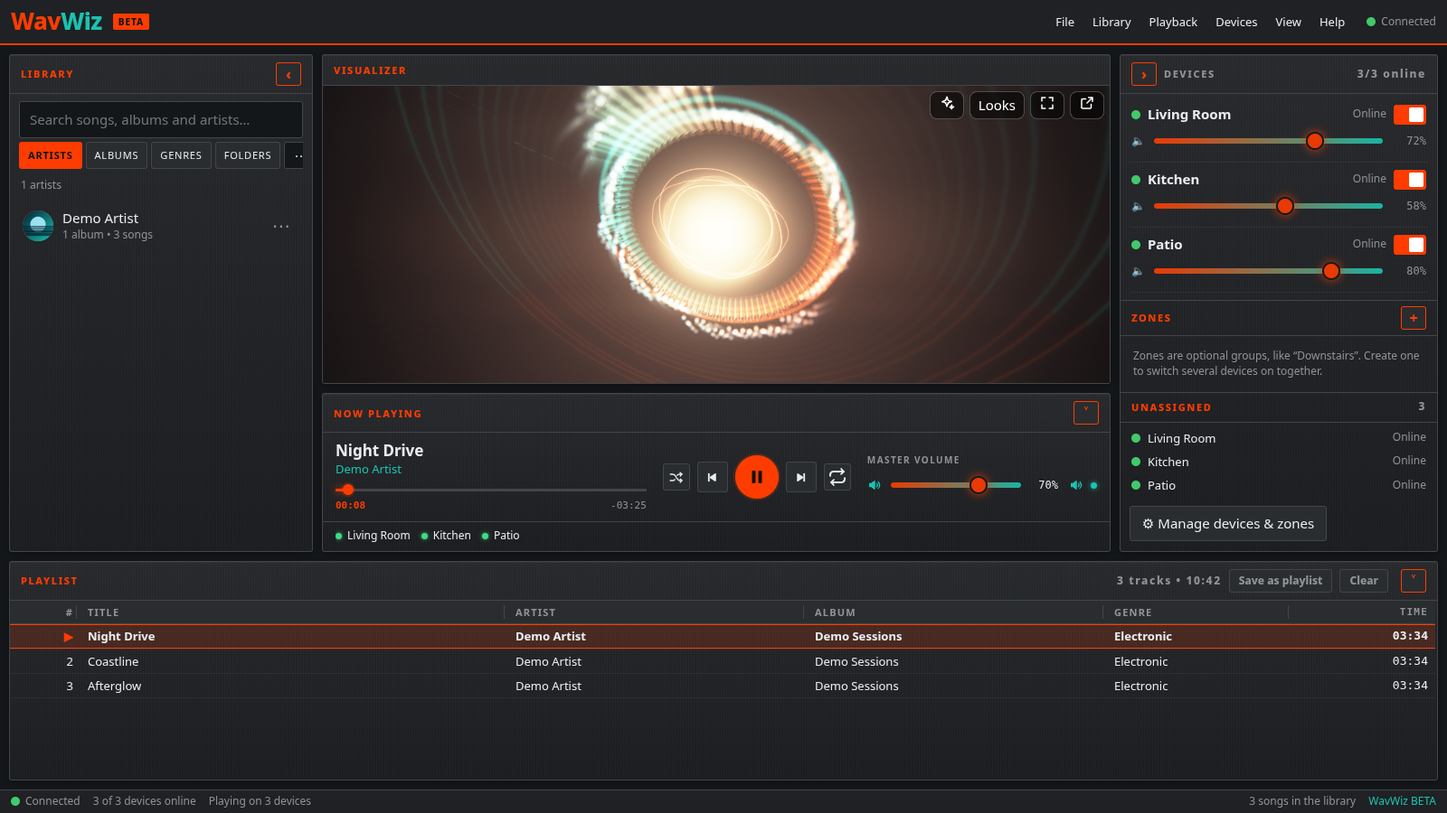
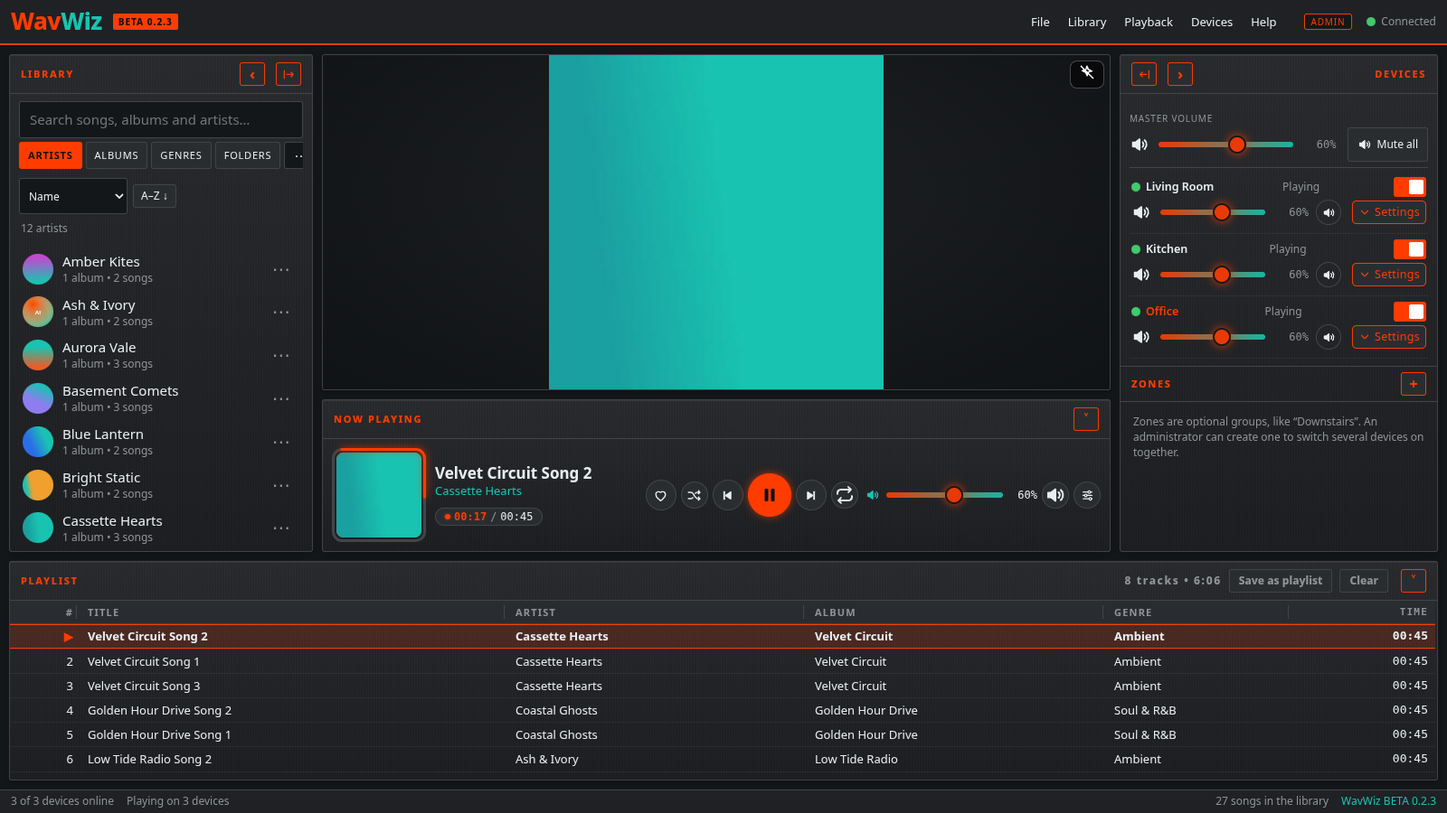
0.2.3 docs: README features/screenshots, FIRST-RUN (menus, Settings, devices, phone calibration, Lock EQ), CHANGELOG 0.2.0 entry and public wording, INSTALLER/SUPPORT refresh

diff --git a/CHANGELOG.md b/CHANGELOG.md
@@ -10,35 +10,31 @@ WavWiz is currently in **beta**. Breaking changes and rough edges are expected.
 
 ## [Unreleased]
 
-### Planned
-
-Items below are on the roadmap (not promised for a specific date):
-
-- Authenticode code signing for the public installer (planned for 1.0.0)
+Nothing yet.
 
 ## [0.2.3] - 2026-10-11 (beta)
 
-Fine-tunes on top of 0.2.2 (which was not published on its own); 0.2.3 includes everything from 0.2.2.
+First public release since 0.1.3. Versions 0.2.0, 0.2.1 and 0.2.2 were test builds and were not published on their own; their changes are listed below and are all included in 0.2.3.
 
 ### Changed
 
-- **Minimized Now Playing is one line (U1):** album thumbnail, title · artist over the progress bar (elapsed / total), then heart, shuffle, previous, Play / Pause, next, repeat, volume + %, mute and EQ, all on the Now Playing bar and scaled to fit (less important pieces drop out first on narrow columns). Nothing moves to the Playlist title bar any more, and Play / Pause is no longer forced to the center.
-- **Minimized Playlist shows "Up next" (U2):** the next song in the queue (cover, title · artist), centered on the Now Playing column; the track count, Save as playlist and Clear stay at the right.
-- **The one-line bar follows the selected control panel style and theme (U3):** Classic (progress ring around the thumbnail, glowing round Play), Center (soft buttons, waveform seek, spinning record thumbnail), Stack (small LCD window, LED-block seek, squared buttons), Horizon (glowing thumbnail, seek line flowing from it, ring buttons), in the theme's Main / Second colors; the panel effect sliders apply.
-- **Settings > Appearance > Display size** has no preview pane (U4); the whole app already changes live.
-- **Pinned previews (U5, U8):** the Theme, Visualizer, EQ and Now Playing live previews stay at the top of the page while the settings below scroll, at every Display size (the pinned preview shrinks on short windows).
-- **Expand buttons (U6)** point the way the panel travels: Devices expands to the left and returns to the right; Library is the mirror image.
-- **Devices header (U7):** the DEVICES title sits at the right edge, a true mirror of LIBRARY.
-- **Device cards open into their settings (U12):** the ••• button on each device card is now a themed chevron **Settings** button (it matches the Library / Devices expand arrows). It opens the device's settings (sound check, exact delay, Sound / EQ, connection, Rename / Set as reference / Forget) downward under the card, in place, in both the Standard and Expanded Devices views; the chevron flips, and the button or Esc closes them. Admin-only items stay visible but read-only for other users. Each card remembers being open for the browser session.
-- **Appearance > EQ shows the real EQ (U10):** the preview mirrors this device's speaker (bands, preset, pre-gain, loudness), live, in the chosen style. It opens with Lock EQ checked every time; unchecked, changes play at once and are kept in the speaker's own preset ("<speaker> EQ").
+- **Minimized Now Playing is one line:** album thumbnail, title · artist over the progress bar (elapsed / total), then heart, shuffle, previous, Play / Pause, next, repeat, volume + %, mute and EQ, all on the Now Playing bar and scaled to fit (less important pieces drop out first on narrow columns). Nothing moves to the Playlist title bar any more, and Play / Pause is no longer forced to the center.
+- **Minimized Playlist shows "Up next":** the next song in the queue (cover, title · artist), centered on the Now Playing column; the track count, Save as playlist and Clear stay at the right.
+- **The one-line bar follows the selected control panel style and theme:** Classic (progress ring around the thumbnail, glowing round Play), Center (soft buttons, waveform seek, spinning record thumbnail), Stack (small LCD window, LED-block seek, squared buttons), Horizon (glowing thumbnail, seek line flowing from it, ring buttons), in the theme's Main / Second colors; the panel effect sliders apply.
+- **Settings > Appearance > Display size** has no preview pane; the whole app already changes live.
+- **Pinned previews:** the Theme, Visualizer, EQ and Now Playing live previews stay at the top of the page while the settings below scroll, at every Display size (the pinned preview shrinks on short windows).
+- **Expand buttons** point the way the panel travels: Devices expands to the left and returns to the right; Library is the mirror image.
+- **Devices header:** the DEVICES title sits at the right edge, a true mirror of LIBRARY.
+- **Device cards open into their settings:** the ••• button on each device card is now a themed chevron **Settings** button (it matches the Library / Devices expand arrows). It opens the device's settings (sound check, exact delay, Sound / EQ, connection, Rename / Set as reference / Forget) downward under the card, in place, in both the Standard and Expanded Devices views; the chevron flips, and the button or Esc closes them. Admin-only items stay visible but read-only for other users. Each card remembers being open for the browser session.
+- **Appearance > EQ shows the real EQ:** the preview mirrors this device's speaker (bands, preset, pre-gain, loudness), live, in the chosen style. It opens with Lock EQ checked every time; unchecked, changes play at once and are kept in the speaker's own preset ("<speaker> EQ").
 
 ### Added
 
-- **Lock EQ (U9):** a checkbox with a padlock in the Sound (EQ) window header and on the Appearance > EQ preview. Locked, the EQ sliders ignore the mouse wheel (the page scrolls instead), dragging, clicks and keys, and look slightly dimmed with a small lock. Remembered per device; off by default (the wheel still fine-adjusts in 0.5 dB steps).
+- **Lock EQ:** a checkbox with a padlock in the Sound (EQ) window header and on the Appearance > EQ preview. Locked, the EQ sliders ignore the mouse wheel (the page scrolls instead), dragging, clicks and keys, and look slightly dimmed with a small lock. Remembered per device; off by default (the wheel still fine-adjusts in 0.5 dB steps).
 
 ### Fixed
 
-- **Revoking a device removes it from the Devices list (U11):** revoking a paired phone or browser (Settings > Devices > Paired devices & tokens) left the speakers it had opened in that browser on every Devices list, still connected and playing, because only WavWiz Player tokens were handled. Now everything the token owns leaves the list at once on every open page (Standard, Expanded, zones and the Devices page), its connections close, and it has to pair again. Forget device on a browser speaker no longer lets it rejoin straight away, and a list that was busy (a slider, menu or zone editor open) no longer keeps a removed device.
+- **Revoking a device removes it from the Devices list:** revoking a paired phone or browser (Settings > Devices > Paired devices & tokens) left the speakers it had opened in that browser on every Devices list, still connected and playing, because only WavWiz Player tokens were handled. Now everything the token owns leaves the list at once on every open page (Standard, Expanded, zones and the Devices page), its connections close, and it has to pair again. Forget device on a browser speaker no longer lets it rejoin straight away, and a list that was busy (a slider, menu or zone editor open) no longer keeps a removed device.
 
 ## [0.2.2] - 2026-10-10 (beta)
 
@@ -95,6 +91,36 @@ Fine-tunes on top of 0.2.2 (which was not published on its own); 0.2.3 includes 
 - The Library filter box lost focus after every keystroke.
 - Menus now switch on hover while one is open, like Windows.
 - The silent installer returned exit code 0 even when a setup step failed.
+
+## [0.2.0] - 2026-10-08 (beta)
+
+### Added
+
+- **Every browser is a speaker:** any desktop, phone or tablet browser that opens WavWiz joins as a speaker by itself, with a readable name (for example "Chrome on Windows"). The separate "This phone as a device" page is gone.
+- **Safe start for slower browsers:** the visualizer starts after the page is ready, a stall watchdog switches to a lighter mode if the page freezes, and `?lite` opens the light layout directly.
+- **Getting started:** one short guide on first run and from Help > Getting started (speakers, test sound, next steps).
+- **Sign in as admin / Leave admin mode** (File menu): unlock admin settings in place without signing out or pairing again; an Admin chip shows while it is on. Admin-only items are read-only for everyone else, never hidden.
+- **Master volume** at the top of Devices, and a Mute button on every speaker.
+- **Outputs:** each PC speaker shows its audio output, can switch it, and keeps its delay (0–1000 ms) per output.
+- **Set as reference:** pick a house reference speaker once; calibration uses it by default.
+- **Four Now Playing styles:** Classic (default), Center, Stack and Horizon, each with Panel effects sliders (50% default).
+- **Ten theme presets**, including Blue Steel, an all-green Pepecoin, Nebula and Lime Circuit; custom themes with more color pickers.
+- **Library:** sorting with a flip button and a letter strip on every tab, favorites (hearts) with a Favorites tab, a cover grid, and the big Expanded library view.
+- **Spectrum visualizer** (smooth rounded bars in the theme colors with a glossy reflection), every effect 0–100% with a 50% default.
+- **What's new** pop-up, shown once after an update.
+- Transparent square app icons; silent-install switches, exit codes and upgrade behavior documented in [docs/INSTALLER.md](docs/INSTALLER.md).
+
+### Changed
+
+- The volume and Mute on the Now Playing panel control only the device you are using; the header chips only show status.
+- Regular users can set the delay and output of their own device; house-wide settings stay with the administrator.
+- **Calibration** pauses the music and resumes it afterwards, re-syncs the clock before every recording, and waits for you to walk to the next speaker, with a Wi-Fi meter.
+- The About box and privacy note now say plainly which features reach the internet (internet radio, tag and cover lookups, Spotify Connect).
+- MusicBrainz lookups identify themselves with the current WavWiz version.
+
+### Removed
+
+- The Terrain visualizer (a saved Terrain choice switches to Spectrum).
 
 ## [0.1.3] - 2026-10-07 (first public beta)
 

diff --git a/README.md b/README.md
@@ -10,7 +10,7 @@
 
 **Whole-home audio wizardry.**
 
-WavWiz turns an always-on Windows PC into a whole-home music server. Your library and internet radio play in sync on your PCs, phones, and tablets. Phones play from the browser, with no app to install. No cloud account, no analytics, no telemetry, and WavWiz doesn't open ports to the internet. (Internet radio, tag/cover lookups, and the optional Spotify Connect reach the internet when you use them.)
+WavWiz turns an always-on Windows PC into a whole-home music server. Your library and internet radio play in sync on your PCs, phones, and tablets. Phones play from the browser, with no app to install. No cloud account, no analytics, no telemetry, and WavWiz doesn't open ports to the internet. (Internet radio, tag and cover lookups, online album covers and artist photos (which you can switch off), and the optional Spotify Connect reach the internet.)
 
 > **Public beta.** Expect rough edges and frequent updates. Please report bugs via [GitHub Issues](https://github.com/vdubbin74/WavWiz/issues).
 
@@ -20,19 +20,25 @@ WavWiz turns an always-on Windows PC into a whole-home music server. Your librar
 
 ## Screenshots
 
-![WavWiz main window with the library, visualizer, Now Playing, three connected devices and the playlist](docs/img/wavwiz-main.png)
+![WavWiz main window with the library, Now Playing, three connected devices and the playlist](docs/img/wavwiz-main.png)
 
-| Phone (browser) | Per-device delay | Add a music folder |
+| Device settings, opened in place | Sound (EQ) with Lock EQ | Settings > Appearance > Theme |
 | --- | --- | --- |
-| ![WavWiz Now Playing on a phone](docs/img/wavwiz-phone.png) | ![Per-device delay slider for Living Room, with Kitchen and Patio in the device list](docs/img/wavwiz-delay.png) | ![Settings, Music folders with a network folder being added](docs/img/wavwiz-settings-library.png) |
+| ![Two device cards, one opened to show sound check, exact delay, Sound / EQ, connection and Rename / Set as reference / Forget](docs/img/wavwiz-device-settings.png) | ![The 10-band EQ in the LED look with Lock EQ checked](docs/img/wavwiz-eq-lock.png) | ![Theme cards with the live preview pinned at the top](docs/img/wavwiz-appearance-theme.png) |
+
+**Minimized Now Playing: everything on one line**
+
+![Minimized Now Playing bar with cover, title, progress and every control on one line, and the Playlist bar showing Up next](docs/img/wavwiz-minimized-bar.png)
+
+| Phone (browser) | Add a music folder |
+| --- | --- |
+| ![WavWiz Now Playing on a phone](docs/img/wavwiz-phone.png) | ![Settings, Music folders with a network folder being added](docs/img/wavwiz-settings-library.png) |
 
 **Visualizers**
 
-| Graphic EQ | Ring | Speaker cone |
-| --- | --- | --- |
-| ![Graphic EQ visualizer](docs/img/wavwiz-viz-graphic-eq.png) | ![Ring visualizer](docs/img/wavwiz-viz-ring.png) | ![Speaker cone visualizer](docs/img/wavwiz-viz-speaker-cone.png) |
-| **Terrain** | **VU meters** | |
-| ![Terrain visualizer](docs/img/wavwiz-viz-terrain.png) | ![VU meters visualizer](docs/img/wavwiz-viz-vu-meters.png) | |
+| Graphic EQ | Ring | Speaker cone | VU meters |
+| --- | --- | --- | --- |
+| ![Graphic EQ visualizer](docs/img/wavwiz-viz-graphic-eq.png) | ![Ring visualizer](docs/img/wavwiz-viz-ring.png) | ![Speaker cone visualizer](docs/img/wavwiz-viz-speaker-cone.png) | ![VU meters visualizer](docs/img/wavwiz-viz-vu-meters.png) |
 
 **Themes**
 
@@ -48,13 +54,17 @@ WavWiz turns an always-on Windows PC into a whole-home music server. Your librar
 
 ## Features
 
-- **Whole-home sync** — Every device plays the same stream against a shared clock, and WavWiz keeps correcting each device's drift: Windows PCs with WavWiz Player, plus phones, tablets, and Macs in the browser. No sync measurements are published yet.
-- **Per-device delay (0–1000 ms)** — Live slider and number box so Bluetooth speakers, TV audio, and Wi-Fi PCs line up instead of echoing between rooms.
+- **Whole-home sync** — Every device plays the same stream against a shared clock, and WavWiz keeps correcting each device's drift: Windows PCs with WavWiz Player, plus phones, tablets, and Macs in the browser. Every browser that opens WavWiz joins as a speaker by itself. No sync measurements are published yet.
+- **Devices and zones** — Master volume and Mute all, plus volume, Mute and on/off for every speaker. Each device card opens its settings in place: sound check, exact delay, Sound / EQ, audio output, connection, Rename, Set as reference, and Forget. Optional zones (for example “Downstairs”) in a sidebar. Revoking a device removes it everywhere at once; it has to pair again.
+- **Per-device delay (0–1000 ms)** — Live slider and number box so Bluetooth speakers and Wi-Fi PCs line up instead of echoing between rooms; on PCs the delay is kept per audio output. **Calibrate speakers** measures it with your phone as the microphone (scan a QR code; needs the one-time HTTPS setup). The music pauses while it measures.
 - **AirPlay, built in** — The server appears as the AirPlay speaker **WavWiz – Whole House**. Send audio from apps on iPhone, iPad, or Mac; it plays in every room in sync, with title and artwork on Now Playing.
-- **Optional Spotify Connect** — Off by default. Turn it on in Admin settings; WavWiz appears in Spotify’s device list and streams to every room. **Requires your own Spotify Premium account.** Unofficial open-source client (librespot); not made or endorsed by Spotify.
-- **Library** — Browse artists, albums, genres, and folders; playlists; queue; internet radio; optional CD ripping, and missing tags/covers suggested from MusicBrainz (nothing is written until you approve it). Password-protected NAS shares, gapless album playback, and automatic volume leveling (ReplayGain / R128).
-- **Zones** — Group devices (for example “Downstairs”) with per-device volume and on/off.
-- **Visualizers** — Eight original looks (Particle burst, Waveform river, Speaker cone, Ring, Neon tunnel, Terrain, VU meters, Graphic EQ), each with its own 0–100% effect controls, a Quality setting (Auto / Low / High / Ultra), and GPU post effects.
+- **Optional Spotify Connect** — Off by default. Turn it on in Settings → Network; WavWiz appears in Spotify’s device list and streams to every room. **Requires your own Spotify Premium account.** Unofficial open-source client (librespot); not made or endorsed by Spotify.
+- **Library** — Big cover tiles, album pages, artists, genres, and folders, with sorting and a letter strip on every tab, favorites (hearts), playlists, queue, internet radio, and optional CD ripping. Missing covers and artist photos are looked up online (MusicBrainz, Cover Art Archive, Wikidata / Wikimedia Commons, TheAudioDB; can be switched off), and anything still missing gets a generated cover in your theme colors. Missing tags/covers can be suggested from MusicBrainz (nothing is written until you approve it). Password-protected NAS shares, gapless album playback, and automatic volume leveling (ReplayGain / R128).
+- **Now Playing** — Four control panel styles (Classic, Center, Stack, Horizon) with adjustable panel effects. Minimized, the whole panel fits on one line in your style and theme, and the minimized Playlist shows what's up next.
+- **10-band EQ per speaker** — Three looks (LED bars, Studio faders, Spectrum curve), pre-gain, loudness and limiter. **Lock EQ** keeps the mouse wheel and stray clicks from changing it.
+- **Visualizers** — Eight original looks (Particle burst, Waveform river, Speaker cone, Ring, Neon tunnel, Spectrum, VU meters, Graphic EQ), each with its own 0–100% effect controls (50% default), a Quality setting (Auto / Low / High / Ultra), and GPU post effects.
+- **Themes** — Ten presets plus Custom colors (Background, Main, Second, Highlight, Text). Settings → Appearance has live, pinned previews for Theme, Visualizer, EQ, and Now Playing.
+- **Admin mode** — File → Sign in as admin… unlocks house settings on any paired device without signing out; admin-only items are read-only (never hidden) for everyone else.
 - **Privacy-first** — Local network only by default. Optional private remote access via Tailscale (you bring your own Tailscale setup); WavWiz does not open ports to the public internet for you.
 
 AirPlay is a trademark of Apple Inc. Spotify is a trademark of Spotify AB. WavWiz is not affiliated with either.
@@ -80,9 +90,12 @@ The installer is **not Authenticode-signed yet**, so Windows SmartScreen may war
 1. Open [Releases](https://github.com/vdubbin74/WavWiz/releases/latest) and download the latest `WavWiz-Setup-*.exe`.
 2. Verify the published SHA-256 if one is listed on the release.
 3. Run the installer:
-   - On the music PC: install **WavWiz Server**, keep the **Private / home-network** address (do not bind to all interfaces), finish, open the web UI, set an administrator password, add music folders.
-   - On each PC with speakers: install **WavWiz Player**; it discovers the server—pair with the code from Settings if asked.
-4. Read [docs/FIRST-RUN.md](docs/FIRST-RUN.md) for Private network, AirPlay, and optional Spotify Connect tips.
+   - On the music PC: install **WavWiz Server**, keep the **Private / home-network** address (do not bind to all interfaces), finish, open the web UI, set an administrator password, and add music folders in **File → Settings… → Library**.
+   - On each PC with speakers: install **WavWiz Player**; it discovers the server—pair with the 6-digit code from **Settings → Devices** if asked.
+   - On phones and tablets: open the server's web page in the browser on your home Wi-Fi.
+4. Read [docs/FIRST-RUN.md](docs/FIRST-RUN.md) for Private network, devices and calibration, the menus and Settings, AirPlay, and optional Spotify Connect tips.
+
+Upgrading? Run the new installer over the old one, even while WavWiz is running; it closes WavWiz first and keeps your library, settings, and pairings.
 
 More detail: [wavwiz.com](https://wavwiz.com).
 

diff --git a/docs/FIRST-RUN.md b/docs/FIRST-RUN.md
@@ -31,12 +31,15 @@ After Server install, open the WavWiz web page (shortcut or the address the wiza
 1. Choose a strong **administrator password** when prompted.
 2. You will need it for Settings that change the house (library folders, network options, Spotify Connect, and so on).
 3. Ordinary listening from phones can use pairing / normal access without giving everyone the admin password.
+4. On a paired device you can switch to admin at any time with **File → Sign in as admin…** (no sign-out, no new pairing code); **File → Leave admin mode** switches back. An **Admin** chip shows while it is on. Admin-only items stay visible but read-only for everyone else.
+
+A short **Getting started** guide opens on first run; reopen it any time from **Help → Getting started**.
 
 If you forget the admin password, use the **password reset** path documented for your version (reset on the **server PC only**; your music library files stay put).
 
 ## 4. Add music folders
 
-In **Settings → Library** (wording may vary slightly by beta):
+In **File → Settings… → Library → Music folders**:
 
 1. Add the folder(s) where your files live (local disks are simplest).
 2. Let WavWiz scan; browse by artist / album / genre / folders.
@@ -47,12 +50,40 @@ Internet radio and optional CD ripping are separate tools inside the app—they 
 
 ## 5. Pair players and phones
 
-- **Player PCs:** install Player; it usually finds the server. If asked, enter the pairing code from Settings → pair a phone or PC player.
-- **Phones:** open the server URL on the same Wi-Fi; complete pairing if prompted. Sound on iPhone often needs a first tap to unlock audio.
+- **Player PCs:** install Player; it usually finds the server. If asked, type the 6-digit code from **Settings → Devices → Pair a phone or a PC player** (or **Devices → Pair a player…**).
+- **Phones and browsers:** open the server's address on the same Wi-Fi and complete pairing if prompted. Every browser that opens WavWiz joins as a speaker by itself, with a readable name such as "Chrome on Windows". Sound on iPhone often needs a first tap to unlock audio.
+- **Removing a device:** **Settings → Devices → Paired devices & tokens → Revoke** (or **Forget device…** in a device card's settings) removes it from the Devices list on every open page right away; it has to pair again to come back.
 
-Use **per-device delay (0–1000 ms)** if Bluetooth speakers or TVs lag behind other rooms.
+## 6. Devices, zones and delay
 
-## 6. AirPlay tip (VPN / isolation)
+- **Devices → Devices & zones** opens the expanded Devices view. **Master volume** and **Mute all** sit at the top; every speaker has its own volume, Mute and on/off switch. The volume and Mute on the Now Playing panel control only the device you are using.
+- **Zones** are optional groups (for example "Downstairs"): pick one in the zones sidebar to filter the cards, or edit it in place.
+- Each device card has a **Settings** button with an arrow. It opens that device's settings right under the card: **Set delay by ear**, **Test sound**, the exact delay, **Sound / EQ…**, its audio output, connection details, **Rename…**, **Set as reference** and **Forget device…**. Click it again or press **Esc** to close.
+- Use **per-device delay (0–1000 ms)** if Bluetooth speakers lag behind other rooms. On PCs the delay is kept per audio output.
+
+### Calibrate with your phone
+
+**Devices → Calibrate speakers…** measures each speaker's delay with a phone microphone. The music pauses while it measures and resumes afterwards, and it waits for you to walk to the next speaker.
+
+1. A phone only allows its microphone on a trusted HTTPS page. Once, as admin, open **Settings → Devices → Phone & HTTPS → Set up HTTPS**, then scan the QR code with each phone and follow the steps to install WavWiz's certificate (about two minutes).
+2. In Calibrate speakers, use **Use your phone as the microphone**: scan the QR code (or type the short link) on the phone and follow the numbered steps. The line under it shows when the phone is connected. Links expire after 20 minutes.
+3. A link made by an administrator also signs the phone in and lets it calibrate every speaker; other users can calibrate only their own device.
+
+## 7. Settings and appearance
+
+Menus do things, Settings sets things:
+
+- **File:** Settings…, Sign in as admin… / Leave admin mode, Sign out
+- **Library:** Browse library (opens the Expanded library), Playlists, Queue, Rescan folders, plus admin tools (Tidy up library, Tag & cover fix…, CD ripper…)
+- **Playback:** Play / Pause, Next, Previous, Internet radio, Sound / EQ…
+- **Devices:** Devices & zones, Scenes, Schedules, Calibrate speakers…, Pair a player…, Away-from-home…
+- **Help:** Getting started, Diagnostics, What's new, About WavWiz…
+
+**Settings** has four tabs: **Appearance**, **Devices**, **Library** and **Network**. Appearance has its own sub-pages: **Theme**, **Visualizer**, **EQ**, **Now Playing** and **Display size**. The live previews on Theme, Visualizer, EQ and Now Playing stay pinned at the top while you scroll; Display size has no preview because the whole app changes as you pick. Appearance choices apply to the device you are using.
+
+**Lock EQ:** the Sound (EQ) window and **Appearance → EQ** have a **Lock EQ** checkbox. When it is checked, the EQ sliders ignore the mouse wheel, dragging, clicks and keys, so scrolling the page never changes the sound. Each device remembers it (off by default; unlocked, the wheel fine-tunes a slider in 0.5 dB steps). **Appearance → EQ** shows this speaker's real EQ and always opens locked; uncheck it to make changes, which are saved to the speaker's own preset.
+
+## 8. AirPlay tip (VPN / isolation)
 
 AirPlay discovery uses your **local** network (multicast / mDNS). Many **VPN** clients, “kill switches,” or “network isolation” modes hide LAN devices.
 
@@ -62,22 +93,22 @@ If **WavWiz – Whole House** does not appear on iPhone, iPad, or Mac:
 2. Pause or disconnect the **VPN** (or allow LAN access in the VPN app).
 3. Confirm Windows network is **Private** and WavWiz Server is running.
 4. Retry AirPlay from Control Center / the app’s AirPlay icon.
-5. Still stuck? Open **Diagnostics** and use **Restart AirPlay** (and **Clear orphans** if it lists leftover receiver processes).
+5. Still stuck? Open **Help → Diagnostics** and use **Restart AirPlay** (and **Clear orphans** if it lists leftover receiver processes).
 
 AirPlay is built in for this beta; WavWiz is **not** affiliated with Apple. AirPlay is a trademark of Apple Inc.
 
-## 7. Spotify Connect (optional, Premium)
+## 9. Spotify Connect (optional, Premium)
 
 Spotify Connect is **off by default**.
 
 1. Sign in to Spotify on your phone with **Spotify Premium** (required).
-2. In WavWiz, as admin, enable Spotify Connect under network / admin settings.
+2. In WavWiz, as admin, turn on **Spotify Connect** in **Settings → Network → AirPlay & Spotify Connect**.
 3. Choose WavWiz in Spotify’s device list; audio should play through the house sync pipeline.
 
 This uses an **unofficial** open-source client. WavWiz does not store your Spotify password. Spotify is a trademark of Spotify AB; WavWiz is not affiliated with Spotify.
 
-## 8. When something goes wrong
+## 10. When something goes wrong
 
-Open **Diagnostics** in the app, copy the text, and include it with your version and OS in a [GitHub Issue](https://github.com/vdubbin74/WavWiz/issues). See [SUPPORT.md](../SUPPORT.md).
+Open **Help → Diagnostics** in the app, copy the text, and include it with your version and OS in a [GitHub Issue](https://github.com/vdubbin74/WavWiz/issues). See [SUPPORT.md](../SUPPORT.md).
 
 Security problems: email **vdubbin74@proton.me** only — see [SECURITY.md](../SECURITY.md).

diff --git a/docs/INSTALLER.md b/docs/INSTALLER.md
@@ -1,13 +1,13 @@
 # Installer (WavWiz BETA)
 
 **Full self-contained installer only** (`WavWiz-Setup-<version>.exe`); the target PCs have no .NET. There is no slim variant.
-Unsigned. **Built and compiled on Linux (Inno Setup under Wine); never run on Windows yet.**
+Unsigned. Built and compiled on Linux (Inno Setup under Wine); installs and upgrades are tested by hand on Windows PCs.
 
 ## Wizard
 Welcome (BETA) > info page (what it does / never does) > folder > components (Server, Player) > **home-network address** (server only; auto-detected, editable, 0.0.0.0 refused) or **server address** (player-only) > tasks (player autostart, desktop link) > ready memo > install > final page (open the first-run web page, start the player).
 Silent: `/VERYSILENT /SUPPRESSMSGBOXES /COMPONENTS="server,player" /LANIP=192.168.1.20` (`/SERVERHOST=<addr>` seeds the player-only address). Without `/LANIP` the setup script keeps the address in an existing `server.json`, else detects one, else uses 127.0.0.1 with a notice. Other switches: `/SKIPSETUP=1`, `/NOSTART=1`; uninstall `/PURGE=1`.
 
-## Silent install switches (0.2.0, checked against `installer/WavWiz.iss` and `installer/scripts/setup.ps1`; prep for a future winget listing - nothing is published)
+## Silent install switches (checked against `installer/WavWiz.iss` and `installer/scripts/setup.ps1`)
 WavWiz uses Inno Setup, so the standard Inno switches work, plus a few of our own. Run from an elevated prompt (the installer needs admin: it installs a service and firewall rules).
 
 | Switch | Meaning |
@@ -37,7 +37,7 @@ WavWiz-Setup-0.2.3.exe /VERYSILENT /SUPPRESSMSGBOXES /NORESTART /COMPONENTS="pla
 
 **Upgrades:** the same AppId is used for every version, so running a newer installer upgrades in place; `C:\ProgramData\WavWiz` (library database, settings, admin password, paired devices) is kept, the service is re-configured, not re-created. Running the same version again repairs the install (idempotent).
 
-## Store / directory icon (0.2.0 item 19)
+## Store / directory icon
 Transparent square icons for listings (Uptodown, winget manifests, etc.): `assets/logo/wavwiz-1024-transparent.png`, `wavwiz-512-transparent.png`, `wavwiz-256-transparent.png` (real alpha outside the rounded tile). `assets/logo/wavwiz.ico` (16-256 px) is made from the same transparent art and is used for the installer, the Player and the shortcuts. The opaque `wavwiz-<size>.png` files stay for the web app and the wizard images.
 
 ## What setup does (installer\scripts, Windows PowerShell 5.1, each step in its own time-limited child process)
@@ -51,8 +51,8 @@ No hidden window waits for input; no WinForms from the hidden process (`show-not
 `pwsh build/build.ps1` (publish self-contained win-x64 + pinned ffmpeg), `pwsh build/make-installer.ps1` (ISCC; Wine on Linux: set `RR_ISCC`).
 Tests: `pwsh tests/pwsh/install-flow.tests.ps1`, `pwsh tools/scan-ps51.ps1`, `python3 tests/ui-smoke/smoke.py --dll <wavwiz-server.dll>`.
 
-## Not verified on Windows
-PowerShell 5.1 itself, real sc.exe/netsh/icacls behavior, UAC, the Inno wizard pages, SmartScreen, the service as LocalService (file permissions, UNC), firewall behavior, WebView2, WASAPI, DPAPI, tray, autostart.
+## Windows testing
+The automated tests in this repository run on Linux (pwsh with shims, ISCC under Wine). Since 0.2.2, installing, upgrading over a running WavWiz, the service and the Player are also checked by hand on real Windows PCs; PowerShell 5.1, sc.exe/netsh/icacls, UAC, the wizard pages, SmartScreen, firewall rules, WebView2, WASAPI and DPAPI are covered only by those manual installs.
 
 ## 0.0.2 notes
 * Installer is `WavWiz-Setup-0.0.2.exe` (full, self-contained only). Running it over 0.0.1 is an upgrade: `server.json`, the database (library, playlists, settings), the administrator password, paired players and the player defaults are kept; the service is re-configured, not re-created; the firewall rules are replaced (the UDP rule now also opens 47803 discovery and 5353 mDNS).

diff --git a/docs/img/README.md b/docs/img/README.md
@@ -1,13 +1,16 @@
 # Screenshots
 
-Real captures used by the root `README.md` (demo library: "Night Drive" and friends by "Demo Artist", generated audio and artwork).
+Real captures used by the root `README.md`, made with demo libraries (generated audio and artwork; no real music).
 
 | File | Shows |
 | --- | --- |
-| `wavwiz-main.png` | Main window: library, visualizer, Now Playing, devices and playlist |
+| `wavwiz-main.png` | Main window: library, Now Playing (visualizer off, showing the cover), devices and playlist |
+| `wavwiz-device-settings.png` | Device cards, one opened in place with its Settings |
+| `wavwiz-eq-lock.png` | Sound (EQ) window, LED look, with Lock EQ checked |
+| `wavwiz-appearance-theme.png` | Settings > Appearance > Theme with the pinned live preview |
+| `wavwiz-minimized-bar.png` | Minimized Now Playing on one line, with Up next in the Playlist bar |
 | `wavwiz-phone.png` | Now Playing in a phone browser |
-| `wavwiz-delay.png` | Per-device delay slider (Living Room), with Kitchen and Patio listed |
 | `wavwiz-settings-library.png` | Settings > Music folders, adding a folder |
-| `wavwiz-viz-*.png` | Visualizer looks (Graphic EQ, Ring, Speaker cone, Terrain, VU meters) |
+| `wavwiz-viz-*.png` | Visualizer looks (Graphic EQ, Ring, Speaker cone, VU meters) |
 | `wavwiz-theme-*.png` | Ember, Arctic, Pepecoin and Violet Pulse themes |
 | `wavwiz-installer.png` | Setup welcome page |

diff --git a/SUPPORT.md b/SUPPORT.md
@@ -24,7 +24,7 @@ WavWiz is a **public beta**. Best-effort help from the community and maintainers
 - **Windows version** (and whether the problem is on Server PC, Player PC, or phone browser)
 - **What you expected** vs **what happened**
 - **Steps to reproduce**
-- A copy of **Diagnostics** from the app (Settings / Diagnostics — paste text; redact personal folder paths if you prefer)
+- A copy of **Diagnostics** from the app (Help → Diagnostics — paste text; redact personal folder paths if you prefer)
 - Whether AirPlay or Spotify Connect was involved
 - Screenshots or short clips when UI-related
 
